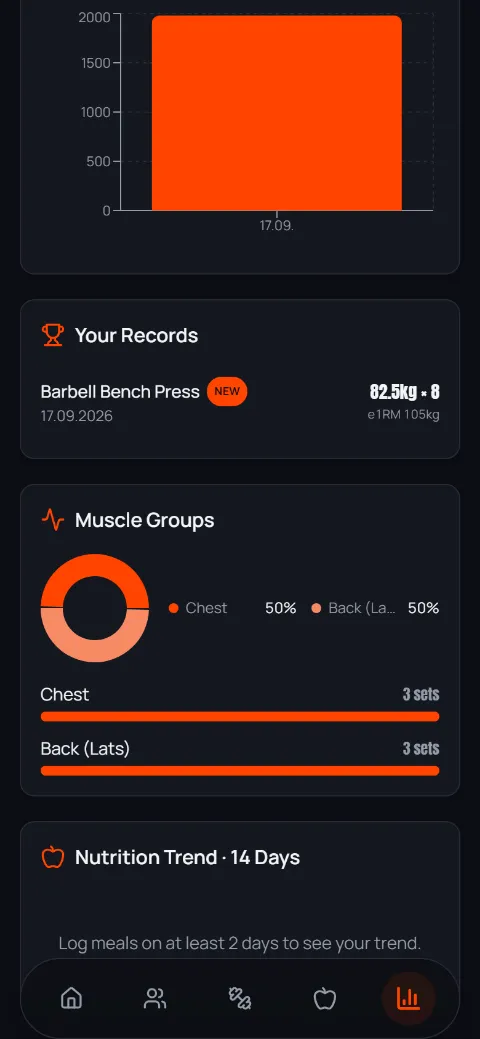
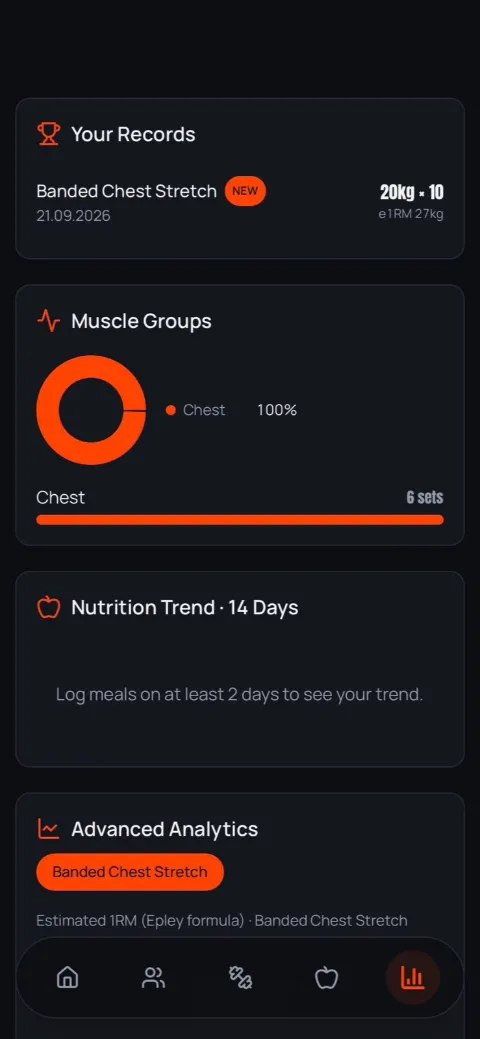
New iPhone screenshots: home, onboarding, nutrition day, food, progress
Five fresh captures from the iPhone app (25 Sep), as WebP at 780 and 480
px like the rest: cropped to the frame's 780:1688 aspect, the iOS status
bar painted over in the app background.

- Gallery goes from 6 to 9 screens: Home (new dashboard) and Onboarding
  (focus muscle groups) lead, Nutrition is now the day view, Food is the
  Banana, raw detail (replaces the Spanish-named food), Progress shows
  the new records and muscle-group cards.
- Feature bento: the nutrition cell crops the day view (kcal left and
  macro rings), the progress cell the new records card; alt texts say
  what is on screen.
- nutrition-confirm*.webp removed; nothing references it any more.

diff --git a/src/content/screenshots.js b/src/content/screenshots.js
@@ -3,16 +3,29 @@
 // placements. Every file is 780 x 1688 (or 480 x 1039), so the frame can
 // reserve the space before the image loads.
 //
-// The home screen capture (dashboard-fresh.png) showed a test account's
-// name and was removed; it comes back once it is retaken with a neutral
-// demo name. The *-dark.png files are older German captures and stay out of
-// the English site.
+// dashboard, onboarding-focus-muscles, nutrition-day, food-detail and
+// progress-records are iPhone captures (25 Sep 2026): cropped to the frame's
+// aspect, with the iOS status bar (time, battery) painted over in the app's
+// background. The *-dark.png files are older German captures and stay out of
+// the English site. Order here is the gallery's order.
 const shot = (name) => ({ src: `/screenshots/${name}.webp`, src480: `/screenshots/${name}-480.webp` });
 
 export const SCREEN_WIDTH = 780;
 export const SCREEN_HEIGHT = 1688;
 
 export const SCREENSHOTS = [
+  {
+    ...shot("dashboard"),
+    title: "Home",
+    caption: "Today's workout, quick adds for water and meals, and your rings for the week and the day.",
+    alt: "The Strivis home screen: today is day 1 of 6, Push, with Barbell Bench Press and Incline Dumbbell Press, a Start workout button, +250 ml and Meal buttons, and rings for workouts this week, kcal left and water",
+  },
+  {
+    ...shot("onboarding-focus-muscles"),
+    title: "Onboarding",
+    caption: "Questions about your training, down to the muscle groups you want to focus on.",
+    alt: "Onboarding question 6 of 10, Focus muscle groups?, with the chest selected on a front-view body figure",
+  },
   {
     ...shot("plan-detail"),
     title: "Plan",
@@ -38,16 +51,22 @@ export const SCREENSHOTS = [
     alt: "Execution tab of an exercise with illustrated positions and step-by-step instructions",
   },
   {
-    ...shot("nutrition-confirm"),
+    ...shot("nutrition-day"),
     title: "Nutrition",
+    caption: "Calories left, macros, water and supplements for the day.",
+    alt: "The Nutrition screen for today: 2875 kcal left, rings for protein, carbs and fat, the macro split, micronutrients, water at 0.3 of 2.5 L and supplements",
+  },
+  {
+    ...shot("food-detail"),
+    title: "Food",
     caption: "Calories and macros per portion, against your daily goal.",
-    alt: "Adding a food: amount in grams, calories and macros as rings, and a nutrition facts table",
+    alt: "Adding Banana, raw: 100 g selected, 97 kcal and its protein, carbs and fat as rings against the daily goal, and a nutrition facts table per 100 g",
   },
   {
     ...shot("progress-records"),
     title: "Progress",
     caption: "Personal records and how your training splits across muscle groups.",
-    alt: "Progress view with a new bench press record, estimated 1RM and muscle-group split",
+    alt: "Progress view with a new record for Banded Chest Stretch, 20 kg x 10 with an estimated 1RM of 27 kg, and all sets on the chest in the muscle-group split",
   },
 ];
 

diff --git a/src/components/home/Features.jsx b/src/components/home/Features.jsx
@@ -55,13 +55,13 @@ export function Features() {
           </Cell>
           <Cell
             title="Logged, not guessed"
-            body="Search real food data from OpenFoodFacts and USDA. Scan barcodes with Premium."
+            body="Calories, macros and water for the day. Search real food data from OpenFoodFacts and USDA. Scan barcodes with Premium."
             className="md:col-span-5"
           >
             <ScreenCrop
               shot={screenshot("Nutrition")}
-              alt="Calories, protein, carbs and fat of a food as rings against the daily goal"
-              position="50% 31%"
+              alt="Today in the Nutrition tab: 2875 kcal left, rings for protein, carbs and fat, and the macro split"
+              position="50% 33%"
               className="mx-6 aspect-[16/9] rounded-b-none md:mx-7"
             />
           </Cell>
@@ -72,8 +72,8 @@ export function Features() {
             </div>
             <ScreenCrop
               shot={screenshot("Progress")}
-              alt="A new Barbell Bench Press record with its estimated 1RM, and the split of sets across muscle groups"
-              position="50% 44%"
+              alt="A new record for Banded Chest Stretch, 20 kg x 10 with an estimated 1RM of 27 kg, and the split of sets across muscle groups"
+              position="50% 12%"
               className="mx-6 aspect-[4/3] rounded-b-none md:col-span-7 md:mx-0 md:mr-10 md:mt-8 md:aspect-[16/10]"
             />
           </Bezel>
